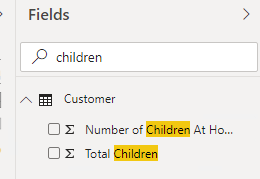
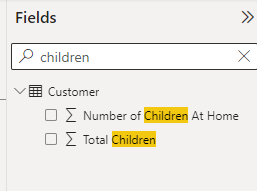
Update van screenshots en teksten in eerste twee modules

diff --git a/01-introduction/01-introduction-powerbi-desktop.md b/01-introduction/01-introduction-powerbi-desktop.md
@@ -4,7 +4,7 @@
 
 ### Downloaden van Power BI
 
-Power BI Desktop is gratis te downloaden en op elke Windows-machine installeren. Mocht dat op jouw computer nog niet gedaan zijn, dan kun je Power BI downloaden vanaf de Windows Store, of vanaf [www.powerbi.com](https://powerbi.microsoft.com/nl-nl/). Wanneer het mogelijk is, installeer Power BI Desktop dan vanuit de Windows Store: dit zorgt ervoor dat je automatisch updates e.d. krijgt, en deze niet handmatig hoeft te downloaden.
+Power BI Desktop is gratis te downloaden en op elke Windows-machine installeren. Mocht dat op jouw computer nog niet gedaan zijn, dan kun je Power BI downloaden [vanaf de Microsoft Store](https://aka.ms/pbidesktopstore), of vanaf [www.powerbi.com](https://www.microsoft.com/nl-nl/download/details.aspx?id=58494). Wanneer het mogelijk is, installeer Power BI Desktop dan vanuit de Microsoft Store: dit zorgt ervoor dat je automatisch updates e.d. krijgt, en deze niet handmatig hoeft te downloaden.
 
 Wanneer je Power BI wilt installeren vanuit de Windows Store, let dan goed op! Zoals je ziet zijn er namelijk drie edities:
 
@@ -12,7 +12,7 @@ Wanneer je Power BI wilt installeren vanuit de Windows Store, let dan goed op! Z
 * **Power BI Desktop** is de tool waarmee je rapporten kunt bewerken en vormgeven
 * **Power BI Report Builder** is de tool waarmee je gepagineerde rapporten kunt maken
 
-Kies voor Power BI Desktop.
+Kies in de Microsoft Store voor **Power BI Desktop**.
 
 ![Kies de juiste Power BI Desktop](img/juiste-powerbi-uit-store.png)
 

diff --git a/02-reporting-on-dataset/02-reporting-on-dataset.md b/02-reporting-on-dataset/02-reporting-on-dataset.md
@@ -51,7 +51,7 @@ Je hebt zojuist een Power BI dataset voor jezelf klaargezet. Dit was een stukje 
    * Klik op het pijltje onder "Get Data"
    * Kies **Power BI Datasets**
    * Kies het model **AdventureWorks**
-   * Klik op **Create**
+   * Klik op **Connect**
 
 ![Selecteer dataset AdventureWorks](img/SelectModelFromPBI.png)
 
@@ -84,7 +84,7 @@ Zoals je ziet, gaat deze grafiek eigenlijk automatisch goed. En hoewel de hoevee
 
 ### Internet Total Tax per Total Children
 
-10. Probeer nu stappen 8 en 9 opnieuw uit te voeren, maar maak deze keer de grafiek te maken voor **Internet Total Tax Amt** en **Total Children** (de laatste is een eigenschap van een klant)
+10. Probeer nu stappen 8 en 9 opnieuw uit te voeren, maar maak deze keer de grafiek te maken voor **Internet Total Tax Amt** (de hoeveelheid betaalde BTW voor internetverkopen) en **Total Children** (het aantal kinderen dat een klant heeft)
 
 ![Total Children verkeerd weergegeven](img/01-total-children-wrong.png)
 

diff --git a/00-Preparation/Environment.md b/00-Preparation/Environment.md
@@ -11,5 +11,6 @@ Voor de training "Power BI: Rapporten en Dashboards" zijn de volgende zaken nodi
   * Een SQL Database beschikbaar
 
 * Per cursus
-  * Cursusmateriaal op GitHub, export naar PDF, of gedrukt
+  * Dit cursusmateriaal op GitHub, export naar PDF, of gedrukt
+  * Voor het Power BI leertraject: daarnaast het PL-300 materiaal. Dit is alleen online (op MS Learn) beschikbaar
   * Opdrachten met bijbehorende bronbestanden
